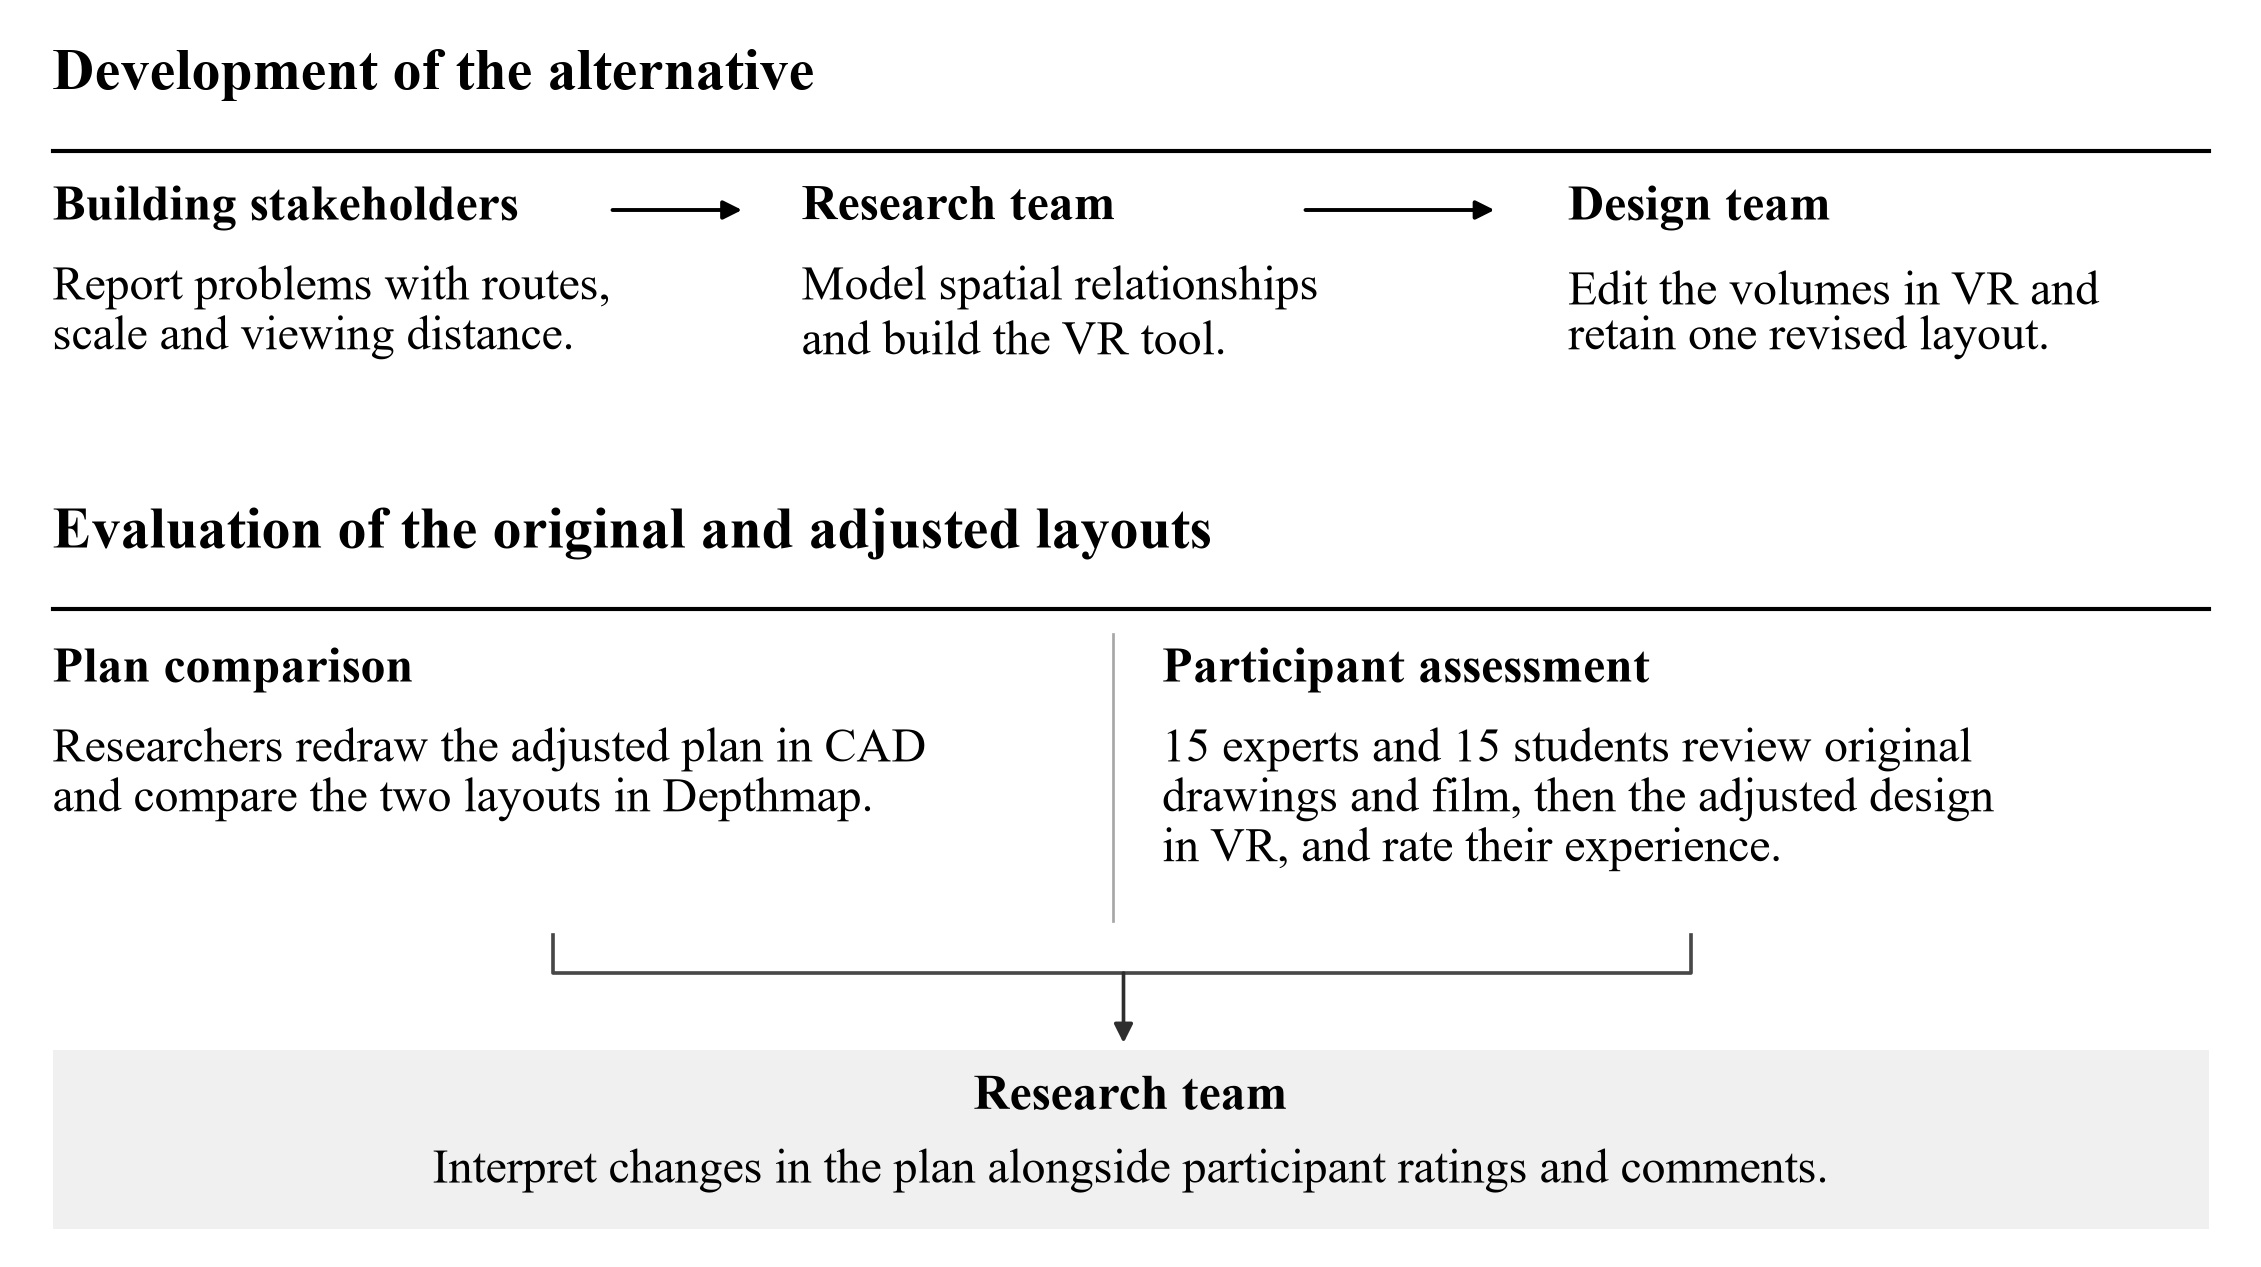
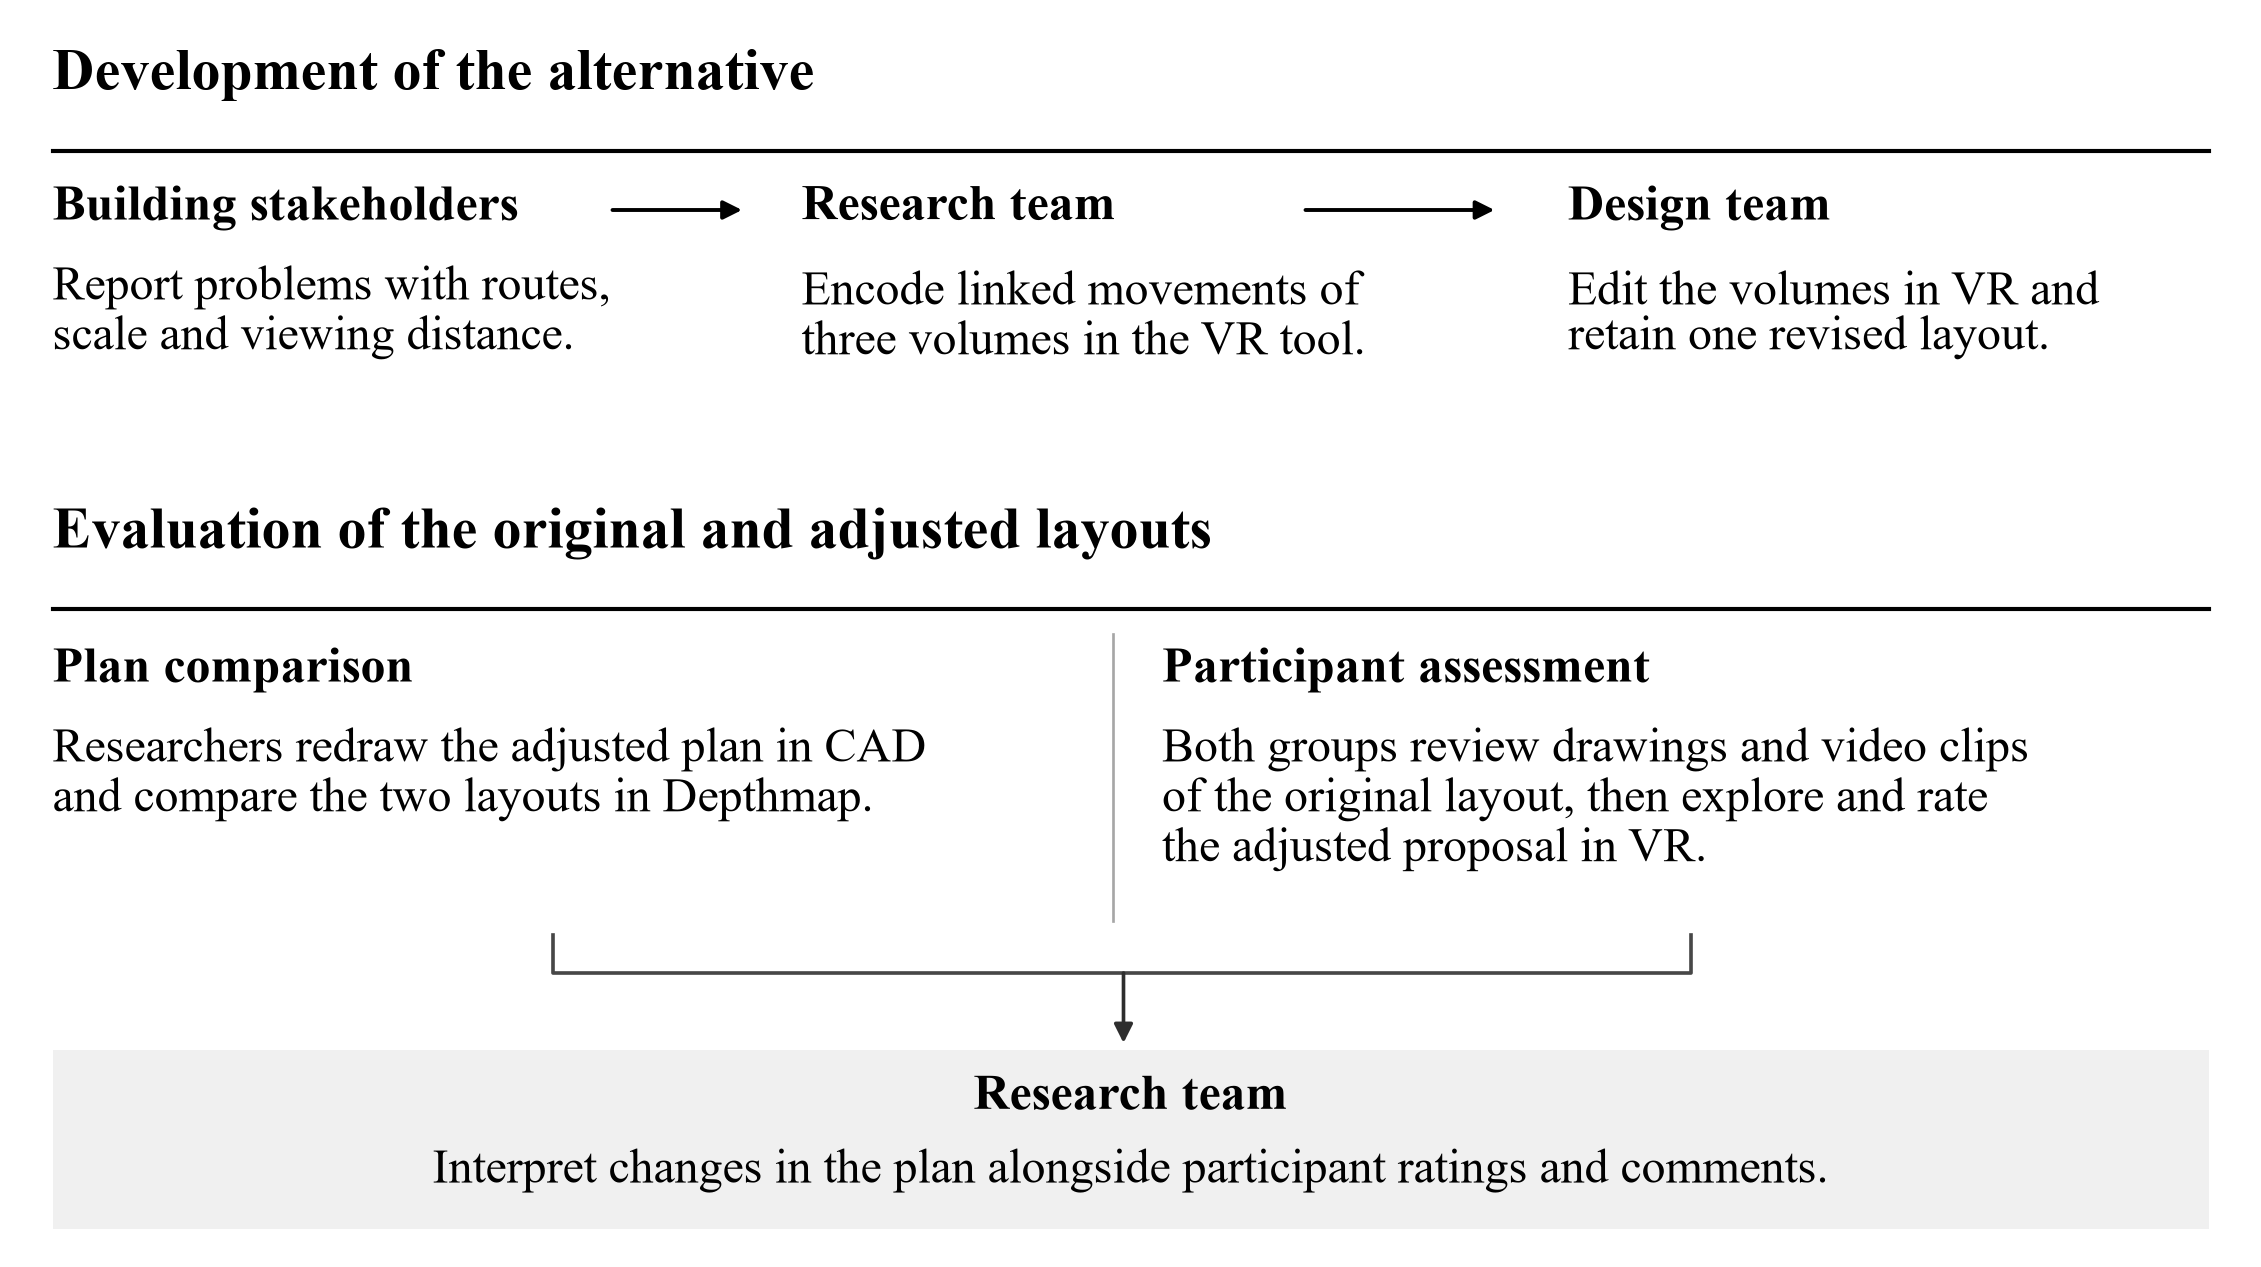
Define the editing method and compare all three original-design video items

Changed region(s): [[0.4954, 0.5848, 0.8978, 0.6772], [0.3406, 0.2155, 0.6192, 0.277]]

diff --git a/Supplementary data/Generate analytical figures.py b/Supplementary data/Generate analytical figures.py
@@ -39,7 +39,7 @@ ax.plot([.07, 6.23], [3.11, 3.11], color='black', lw=.85)
 action(.07, 3.01, 'Building stakeholders',
        'Report problems with routes,\nscale and viewing distance.')
 action(2.21, 3.01, 'Research team',
-       'Model spatial relationships\nand build the VR tool.')
+       'Encode linked movements of\nthree volumes in the VR tool.')
 action(4.40, 3.01, 'Design team',
        'Edit the volumes in VR and\nretain one revised layout.')
 direction(1.67, 2.04, 2.94)
@@ -51,7 +51,7 @@ ax.plot([3.10, 3.10], [.91, 1.73], color='.65', lw=.55)
 action(.07, 1.69, 'Plan comparison',
        'Researchers redraw the adjusted plan in CAD\nand compare the two layouts in Depthmap.')
 action(3.24, 1.69, 'Participant assessment',
-       '15 experts and 15 students review original\ndrawings and film, then the adjusted design\nin VR, and rate their experience.')
+       'Both groups review drawings and video clips\nof the original layout, then explore and rate\nthe adjusted proposal in VR.')
 
 # Join the geometric and participant evidence at the single interpretation step.
 ax.plot([1.5, 1.5, 4.75, 4.75], [.87, .76, .76, .87], color='.28', lw=.75)

diff --git a/Supplementary data/paper_ratings.py b/Supplementary data/paper_ratings.py
@@ -55,7 +55,7 @@ def calculate(root):
             assert sum(a[f'{group}_score{k}'] for k in range(1,6))+lo+hi+unknown==15
         for key in ('yes_min','yes_max'):a['Combined_'+key]=a['Students_'+key]+a['Experts_'+key]
     save(root/'Scheme and tool ratings by group.csv',scheme)
-    comp=[('Drawings_Struct','Video_Struct'),('Video_Presence','Drawings_Presence'),
+    comp=[('Drawings_Scale','Video_Scale'),('Drawings_Struct','Video_Struct'),('Video_Presence','Drawings_Presence'),
           ('VRSpace_Presence','Drawings_Presence'),('VRSpace_Struct','Drawings_Struct'),
           ('VRSpace_Scale','Drawings_Scale'),('Display','Comfort'),('Satisfaction','Function')]
     pairs=[]

diff --git a/README.md b/README.md
@@ -1,6 +1,6 @@
 # Yantai VR spatial configuration review
 
-Research materials for *Spatial configuration review using virtual reality and space syntax: A retrospective museum case study*, by Fan Huang, Yan Zhu and Jia Ning Luo.
+Research materials for *Editing linked spaces in virtual reality: A museum study of layout and representation*, by Fan Huang, Yan Zhu and Jia Ning Luo.
 
 The participant study includes 15 architecture students and 15 anonymous architectural experts. The repository contains anonymous ratings, descriptive summaries, CAD plans, graph attributes, analytical figures, the VR prototype and instructions for reproducing the paper’s analyses.
 
